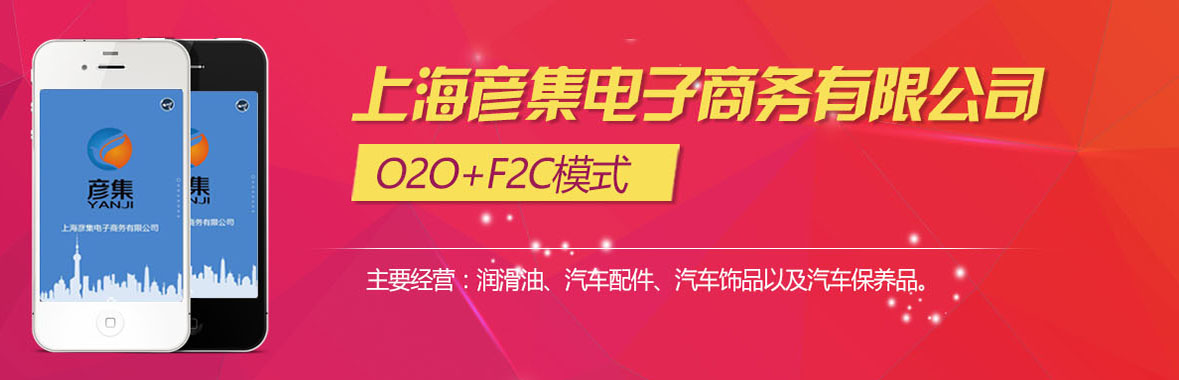
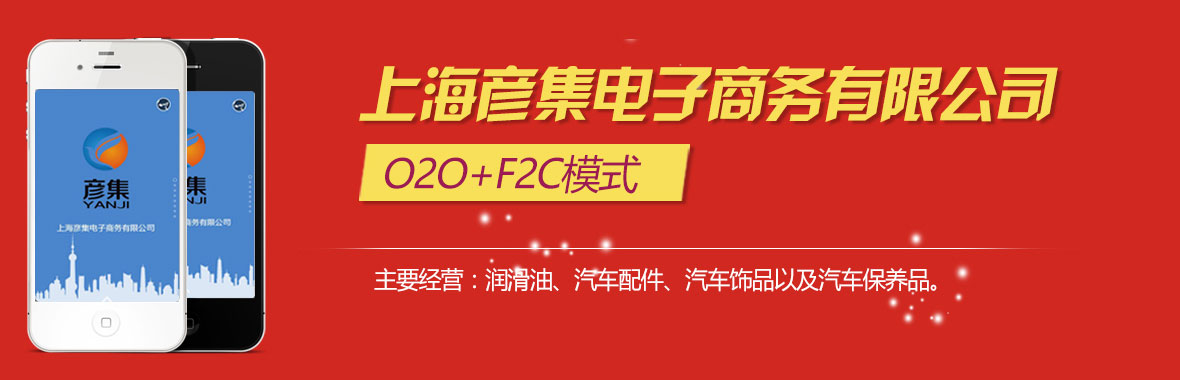
修改红色轮播图

diff --git a/index.html b/index.html
@@ -58,7 +58,7 @@
 		    <div class="item active" style="background-color:#F9C138">
 		        <a href="http://jipart.com"><img  src="images/roll1.jpg"  alt="..."></a>
 		    </div>
-			<div class="item" style="background-color:#C4205F">
+			<div class="item" style="background-color:#d12821">
 			    <a href="http://enggi.com"> <img  src="images/roll2.jpg "  alt="..."></a>
 
 			</div>
